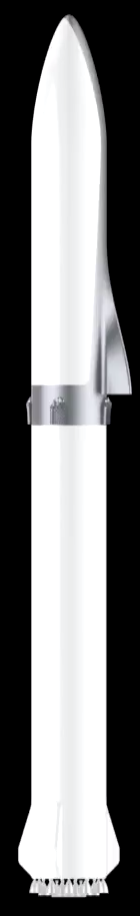
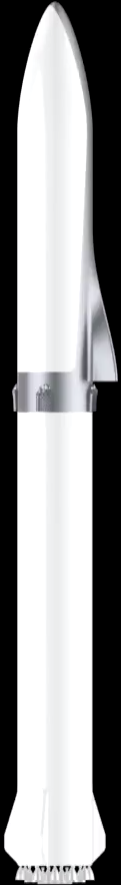
Positionnement de Starships

diff --git a/client/src/App.js b/client/src/App.js
@@ -19,8 +19,9 @@ const App = () => {
       <Navbar />
       <Router>
         <Route exact path='/' component={Landing} />
-        <Route exact path='/' component={Launches} />
+
         <Route exact path='/' component={Rockets} />
+        <Route exact path='/' component={Launches} />
         <Route exact path='/launch/:flight_number' component={Launch} />
       </Router>
     </ApolloProvider>

diff --git a/client/src/components/Rockets.js b/client/src/components/Rockets.js
@@ -25,7 +25,7 @@ const Rockets = () => {
           <div className='col-lg-3 text-center'>
             <img src={falconheavy} class='img-fluid' alt='' />
           </div>
-          <div className='col-lg-3 text-center border'>
+          <div className='col-lg-3 text-center'>
             <img src={starships} class='starships img-fluid' alt='' />
           </div>
         </div>

diff --git a/client/public/css/new-age.css b/client/public/css/new-age.css
@@ -247,7 +247,8 @@ section.rockets {
 }
 
 .starships {
-  margin-inline-start: auto;
+  position: absolute;
+  bottom: 0;
 }
 
 section.rockets .section-heading {
